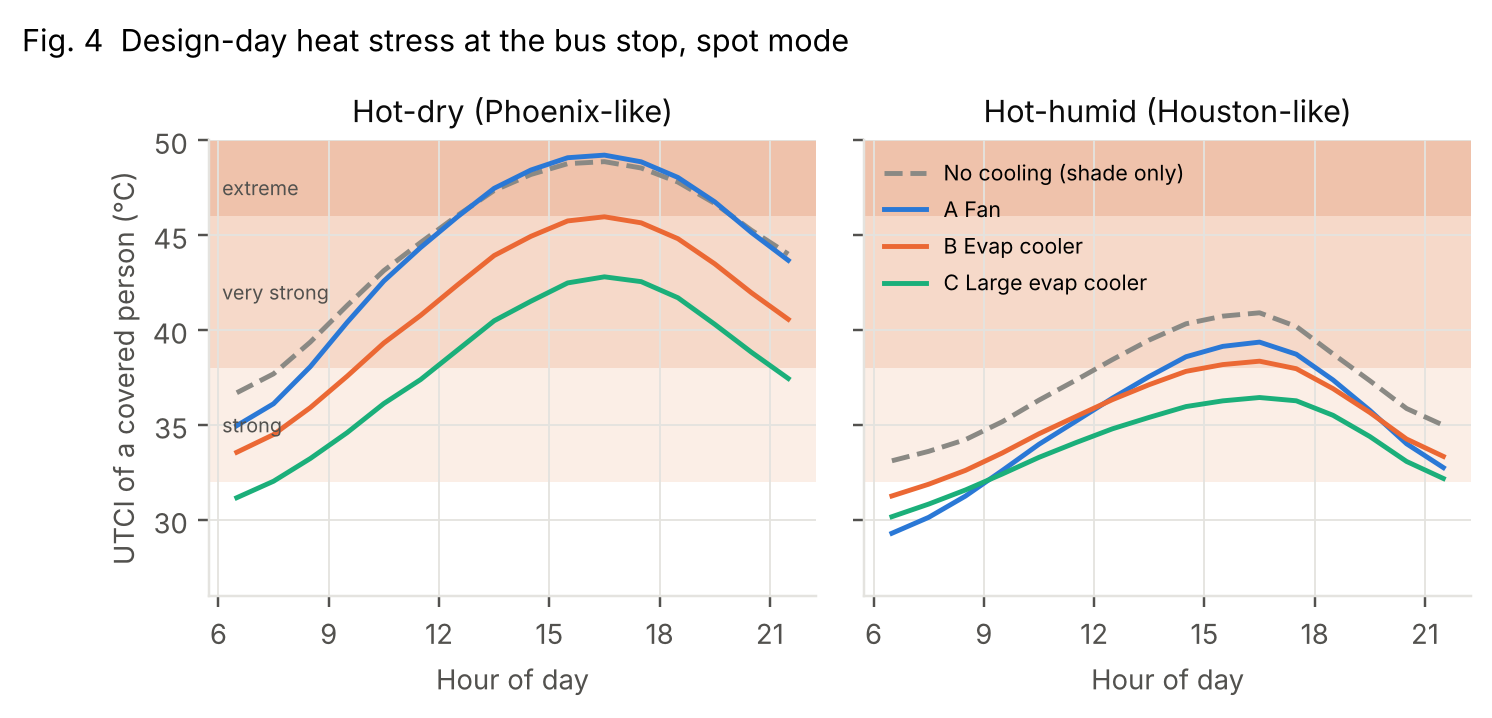
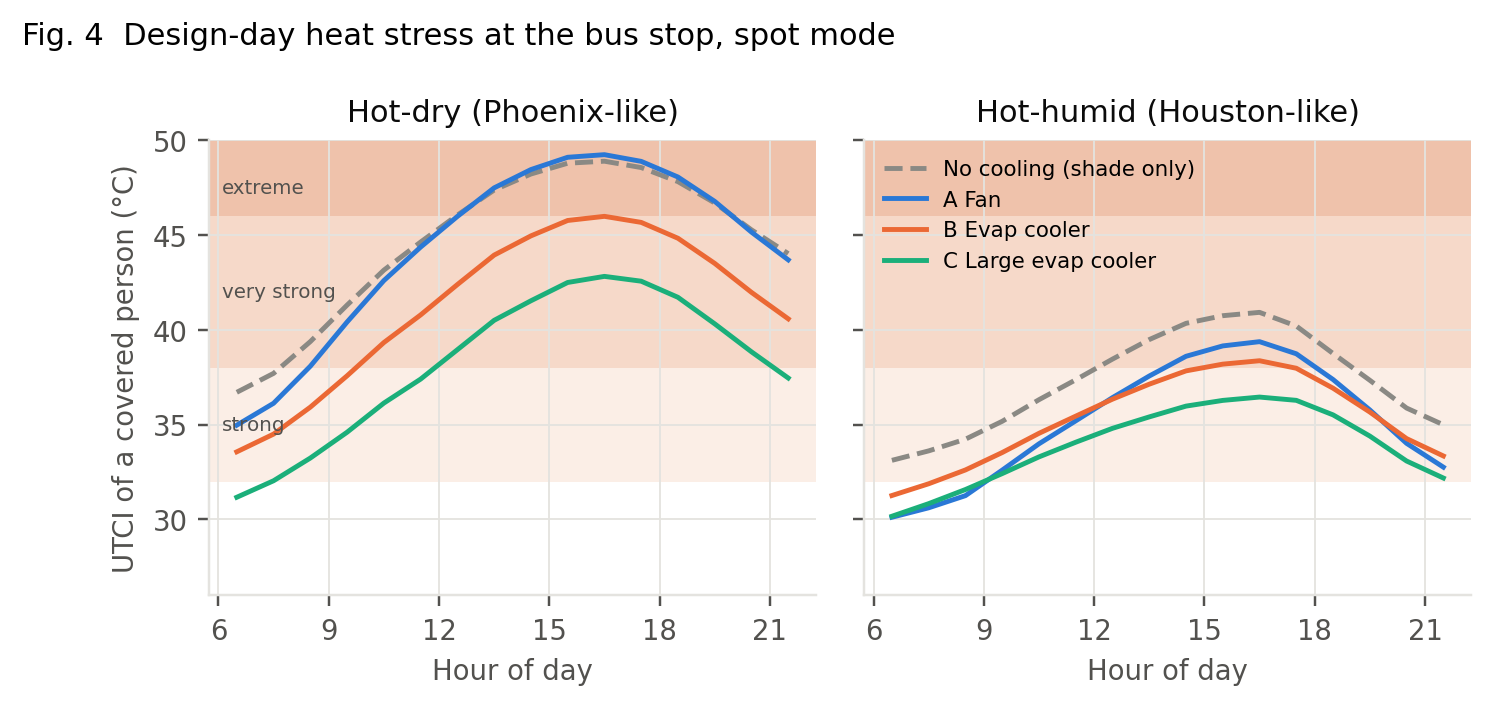
Apply occupied-location rating controls consistently to both models

diff --git a/himcm2026B/stage2b/station.py b/himcm2026B/stage2b/station.py
@@ -26,9 +26,9 @@ import numpy as np
 
 HERE = os.path.dirname(os.path.abspath(__file__))
 sys.path.insert(0, os.path.join(HERE, "..", "stage2"))
-from psychro import humidity_ratio, rel_humidity, evaporative_outlet  # noqa: E402
+from psychro import humidity_ratio, rel_humidity, evaporative_outlet, enthalpy  # noqa: E402
 from model import (Params, devices_for, utci, stress_dose, eps_of, RHO, CP, G,  # noqa: E402
-                   sun_factor, E_WATER)
+                   sun_factor, E_WATER, rated_fan)
 from run_stage2 import weather  # noqa: E402
 
 OUT = os.path.join(HERE, "outputs")
@@ -130,6 +130,8 @@ class System:
     shr: float = 0.75
     setpoint: float = 26.0
     low_supply: bool = True  # AC supplies the occupied zone directly (vs. mixing the whole hall)
+    rated_drop: float = np.inf
+    rating_policy: str = "occupied"
 
 
 def systems():
@@ -137,9 +139,9 @@ def systems():
     q = P2A.q_per_person
     return [
         System("No cooling", "none"),
-        System("A Fans ×10", "fan", 10 * fan.power_kw, jet_speed=fan.jet_speed, cover=10 * fan.airflow / q),
-        System("B Evap ×8", "evap", 8 * b.power_kw, 8 * b.airflow, eps_of(b, P2A), b.jet_speed, 8 * b.airflow / q),
-        System("C Large evap ×5", "evap", 5 * c.power_kw, 5 * c.airflow, eps_of(c, P2A), c.jet_speed, 5 * c.airflow / q),
+        System("A Fans ×10", "fan", 10 * fan.power_kw, jet_speed=fan.jet_speed, cover=10 * fan.airflow / q, rated_drop=fan.rated_drop),
+        System("B Evap ×8", "evap", 8 * b.power_kw, 8 * b.airflow, eps_of(b, P2A), b.jet_speed, 8 * b.airflow / q, rated_drop=b.rated_drop),
+        System("C Large evap ×5", "evap", 5 * c.power_kw, 5 * c.airflow, eps_of(c, P2A), c.jet_speed, 5 * c.airflow / q, rated_drop=c.rated_drop),
         System("D Air conditioner 60 kW", "ac", cap_kw=60.0),
     ]
 
@@ -170,7 +172,7 @@ def timetable(t_h):
 # ---------------------------------------------------------------------------
 # Simulation
 # ---------------------------------------------------------------------------
-def simulate(st, sysm, climate, n_const=None, dt=DT, on=None):
+def simulate(st, sysm, climate, n_const=None, dt=DT, on=None, base=None):
     """Time-dependent heat and moisture balance of the occupied zone.
 
     Each step uses the exact solution of the linear balance with the flows
@@ -184,6 +186,10 @@ def simulate(st, sysm, climate, n_const=None, dt=DT, on=None):
     th = t / 3600
     T_o, RH_o, v_o = outdoor(climate, th)
     W_o = humidity_ratio(T_o, RH_o)
+    if sysm.rating_policy not in ("occupied", "outlet", "uncapped"):
+        raise ValueError("Unknown rating_policy")
+    if sysm.kind == "evap" and sysm.rating_policy == "occupied" and base is None:
+        base = simulate(st, systems()[0], climate, n_const=n_const, dt=dt)
     lam, head = timetable(th)
 
     if st.dynamic and n_const is None:
@@ -244,6 +250,24 @@ def simulate(st, sysm, climate, n_const=None, dt=DT, on=None):
             out["P"][i] = sysm.power_kw
 
         a = RHO * CP * (Q_x + Q_s)                                   # kW/K
+        if Q_s > 0 and sysm.rating_policy != "uncapped":
+            if sysm.rating_policy == "outlet":
+                minimum_supply = T_in - sysm.rated_drop
+            else:
+                # Solve the frozen-flow balance for a bypass supply that
+                # bounds both covered and uncovered occupied temperatures.
+                v_in = max(0.3, 0.5 * v_o[i] * np.mean([st.open_track, st.open_back, st.open_ends]))
+                theta = P2A.theta0 / (1 + v_in / sysm.jet_speed)
+                e = np.exp(-dt * a / C)
+                coef = (1 - e) * Q_s / (Q_x + Q_s)
+                intercept = e * T + (1 - e) * (RHO * CP * Q_x * T_o[i] + G_kw) / a
+                target = base["T"][i] - sysm.rated_drop
+                minimum_supply = max((target - (1 - theta) * intercept) / (theta + (1 - theta) * coef),
+                                     (target - intercept) / coef)
+            T_s = min(T_in, max(T_s, minimum_supply))
+            W_s = float((enthalpy(T_in, W_in) - CP * T_s) / (2501 + 1.86 * T_s))
+            out["T_s"][i], out["W_s"][i] = T_s, W_s
+            out["water"][i] = RHO * Q_s * max(W_s - W_in, 0) * dt
         T_eq = (RHO * CP * (Q_x * T_o[i] + Q_s * T_s) + G_kw) / a
         Q_ac = m_ac = 0.0
         if sysm.kind == "ac":
@@ -290,14 +314,19 @@ def comfort(st, sysm, sim, base):
             Wp = sim["W"] + theta * (sim["W_s"] - sim["W"])
         else:
             Tp, Wp = sim["T"], sim["W"]
-        U_cov = utci(Tp, Tmrt, np.hypot(v_in, sysm.jet_speed), rel_humidity(Tp, Wp))
+        vp = np.hypot(v_in, sysm.jet_speed)
+        U_cov = utci(Tp, Tmrt, vp, rel_humidity(Tp, Wp))
+        if sysm.kind == "fan" and sysm.rating_policy != "uncapped":
+            U_cov, vp = rated_fan(Tp, Tmrt, v_in, rel_humidity(Tp, Wp), sysm.jet_speed, U0, sysm.rated_drop)
         U_cov = np.where(sim["on"], U_cov, U_unc)
         n_cov = np.minimum(N, sysm.cover)
     else:
         U_cov = U_unc
         n_cov = np.zeros_like(N)
+        Tp, Wp, vp = sim["T"], sim["W"], v_in
     D0 = stress_dose(U0, P2A.weights)
-    benefit = n_cov * (D0 - stress_dose(U_cov, P2A.weights)) + (N - n_cov) * (D0 - stress_dose(U_unc, P2A.weights))
+    benefit = (np.where(n_cov > 0, n_cov * (D0 - stress_dose(U_cov, P2A.weights)), 0)
+               + np.where(N > n_cov, (N - n_cov) * (D0 - stress_dose(U_unc, P2A.weights)), 0))
     valid0 = np.isfinite(U0)
     valid1 = ((n_cov == 0) | np.isfinite(U_cov)) & ((N == n_cov) | np.isfinite(U_unc))
     valid = valid0 & valid1
@@ -308,7 +337,7 @@ def comfort(st, sysm, sim, base):
     hot1 = np.where(N == 0, 0.0, np.where(valid1,
                     n_cov * (U_cov >= 38) + (N - n_cov) * (U_unc >= 38), np.nan))
     return dict(U0=U0, U_unc=U_unc, U_cov=U_cov, benefit=benefit, hot0=hot0, hot1=hot1,
-                valid=valid)
+                valid=valid, T_person=Tp, RH_person=rel_humidity(Tp, Wp), v_person=vp)
 
 
 def fan_schedule(st, sysm, climate, base):
@@ -329,7 +358,7 @@ def run(st, sysm, climate, base=None):
     if base is None and sysm.kind != "none":
         base = simulate(st, systems()[0], climate)
     on = fan_schedule(st, sysm, climate, base) if sysm.kind == "fan" else None
-    sim = simulate(st, sysm, climate, on=on)
+    sim = simulate(st, sysm, climate, on=on, base=base)
     if base is None:
         base = sim
     cf = comfort(st, sysm, sim, base)
@@ -341,8 +370,11 @@ def run(st, sysm, climate, base=None):
     relief = cf["benefit"][rep].sum() * h
     invalid = rep & ~cf["valid"] & (sim["N"] > 0)
     pm = rep & (sim["t"] >= 14.5) & (sim["t"] < 15.5)
+    rating_drop = cf["U0"] - cf["U_cov"] if sysm.kind == "fan" else base["T"] - cf["T_person"]
     return dict(
         scenario=st.name, system=sysm.name, climate=climate,
+        rating_policy=sysm.rating_policy,
+        rating_exceed_hours=round(float((rep & (rating_drop > sysm.rated_drop + 1e-5)).sum() * h), 3),
         electricity_kWh=round(elec, 1), water_L=round(water, 0), resource_kWh=round(resource, 1),
         relief_person_degC_h=round(relief, 1),
         eta=round(relief / resource, 1) if resource > 0 else np.nan,

diff --git a/himcm2026B/stage2/model.py b/himcm2026B/stage2/model.py
@@ -43,7 +43,7 @@ class Device:
 class Params:
     # --- M2 device rating interpretation ---
     D_ref: float = 10.0        # degC, wet-bulb depression at which "up to" values hold
-    rating_ceiling: bool = False   # literal reading: the outlet never cools the air by more than the "up to" value
+    rating_policy: str = "occupied"  # occupied (main), outlet (alternative), uncapped (diagnostic)
     fan_ref_T: float = 30.0    # degC, condition at which the fan "feels 3 degC cooler"
     fan_ref_RH: float = 50.0
     q_per_person: float = 0.8  # m3/s of device airflow needed per covered person
@@ -151,6 +151,30 @@ def devices_for(p):
     return tuple(replace(d, jet_speed=fan_u) if d.kind == "fan" else d for d in DEVICES)
 
 
+def rated_fan(T, mrt, v_in, RH, jet, baseline, rating):
+    """Ideal speed modulation to the occupied-location UTCI rating.
+
+    Full rated electric power is charged even when speed is reduced; no
+    unmeasured fan power curve is invented. Harmful fan effects are retained.
+    This is a performance-envelope assumption, not physiological calibration.
+    """
+    raw_v = np.hypot(v_in, jet)
+    raw = utci(T, mrt, raw_v, RH)
+    active = np.isfinite(raw) & (baseline - raw > rating)
+    if not np.any(active):
+        return raw, raw_v
+    lo = np.zeros_like(raw)
+    hi = np.broadcast_to(jet, raw.shape).copy()
+    for _ in range(24):
+        mid = (lo + hi) / 2
+        u = utci(T, mrt, np.hypot(v_in, mid), RH)
+        hit = baseline - u > rating
+        hi = np.where(hit, mid, hi)
+        lo = np.where(hit, lo, mid)
+    v = np.where(active, np.hypot(v_in, lo), raw_v)
+    return utci(T, mrt, v, RH), v
+
+
 # --------------------------------------------------------------------------
 # M3 delivery: volume mode (cool the whole shelter) vs spot mode (aim at people)
 # --------------------------------------------------------------------------
@@ -230,9 +254,27 @@ def evaluate(dev, T, RH, v_w, n_mean, p, mode="spot"):
         share = np.ones_like(T)
     else:
         eps = eps_of(dev, p)
-        if p.rating_ceiling:
-            eps = np.minimum(eps, dev.rated_drop / (T - wet_bulb(T, RH)))
+        if p.rating_policy not in ("occupied", "outlet", "uncapped"):
+            raise ValueError("Unknown rating_policy")
+        if p.rating_policy == "outlet":
+            eps = np.minimum(eps, dev.rated_drop / np.maximum(T - wet_bulb(T, RH), 1e-9))
+        elif p.rating_policy == "occupied" and mode == "spot":
+            theta = p.theta0 / (1 + v_in / dev.jet_speed)
+            eps = np.minimum(eps, dev.rated_drop / np.maximum(theta * (T - wet_bulb(T, RH)), 1e-9))
         T_s, W_s, _ = evaporative_outlet(T, RH, eps)
+        if p.rating_policy == "occupied" and mode != "spot":
+            # Bypass modulation is solved through the zone balance, so water
+            # and sensible cooling use the same supply condition as comfort.
+            test_T = volume_mode_zone(T, W, T_s, W_s, dev.airflow, v_w, n_in, p)[0]
+            if np.any(T - test_T > dev.rated_drop):
+                lo, hi = np.zeros_like(T), np.broadcast_to(eps, T.shape).copy()
+                for _ in range(24):
+                    mid = (lo + hi) / 2
+                    ts, ws, _ = evaporative_outlet(T, RH, mid)
+                    tz = volume_mode_zone(T, W, ts, ws, dev.airflow, v_w, n_in, p)[0]
+                    hit = T - tz > dev.rated_drop
+                    hi, lo = np.where(hit, mid, hi), np.where(hit, lo, mid)
+                T_s, W_s, _ = evaporative_outlet(T, RH, lo)
         gross_kw = RHO * dev.airflow * CP * (T - T_s)                     # sensible cooling made
         water_lph = RHO * dev.airflow * (W_s - W) * 3600                   # kg/h ~ L/h
         if mode == "spot":
@@ -245,6 +287,8 @@ def evaluate(dev, T, RH, v_w, n_mean, p, mode="spot"):
             n_ben = n_in
     RHp = rel_humidity(Tp, Wp)
     U1 = utci(Tp, Tmrt, vp, RHp)   # radiant field is not changed by the device
+    if dev.kind == "fan" and p.rating_policy != "uncapped":
+        U1, vp = rated_fan(Tp, Tmrt, v_in, RHp, dev.jet_speed, U0, dev.rated_drop)
     relief = stress_dose(U0, p.weights) - stress_dose(U1, p.weights)
     eff_drop = np.maximum(U0, 26) - np.maximum(U1, 26)
     resource_kw = dev.power_kw + p.e_water * water_lph / 1000

diff --git a/himcm2026B/tests/test_regressions.py b/himcm2026B/tests/test_regressions.py
@@ -8,8 +8,8 @@ import numpy as np
 ROOT = Path(__file__).resolve().parents[1]
 sys.path.insert(0, str(ROOT / "stage2"))
 sys.path.insert(0, str(ROOT / "stage2b"))
-from model import utci
-from station import station, systems, run
+from model import utci, Params, devices_for, evaluate
+from station import station, systems, run, simulate, comfort
 
 
 class ApplicabilityTests(unittest.TestCase):
@@ -24,6 +24,25 @@ class ApplicabilityTests(unittest.TestCase):
         self.assertFalse(r["full_day_supported"])
         self.assertTrue(np.isnan(r["eta"]))
         self.assertTrue(np.isnan(r["person_h_UTCI38_before"]))
+
+
+class RatingTests(unittest.TestCase):
+    def test_occupied_ratings_in_2a(self):
+        p = Params()
+        for d in devices_for(p):
+            r = evaluate(d, np.array([35., 45., 49.]), 15., 0.1, 10., p)
+            drop = r["dU"] if d.kind == "fan" else np.array([35., 45., 49.]) - r["T_person"]
+            self.assertTrue(np.all(drop <= d.rated_drop + 1e-6))
+
+    def test_occupied_ratings_in_station(self):
+        st = station("Platform screen doors")
+        clim = "Hot-dry (Phoenix-like)"
+        base = simulate(st, systems()[0], clim)
+        for sysm in systems()[1:4]:
+            sim = simulate(st, sysm, clim, base=base)
+            cf = comfort(st, sysm, sim, base)
+            drop = cf["U0"] - cf["U_cov"] if sysm.kind == "fan" else base["T"] - cf["T_person"]
+            self.assertLessEqual(np.nanmax(drop), sysm.rated_drop + 1e-5)
 
 
 if __name__ == "__main__":

diff --git a/himcm2026B/stage2b/run_2b.py b/himcm2026B/stage2b/run_2b.py
@@ -29,14 +29,14 @@ def validation():
     shelter = replace(Station(name="bus shelter"), L=6.0, D=1.8, Hz=2.0, H_open=2.5, open_track=1.0, open_back=0.0,
                       open_ends=1.0, kappa_train=0.0, mass_factor=1.0, gains=False, dynamic=False)
     c = SYS[3]
-    c1 = replace(c, power_kw=DEVS2A[2].power_kw, airflow=DEVS2A[2].airflow)
+    c1 = replace(c, power_kw=DEVS2A[2].power_kw, airflow=DEVS2A[2].airflow, rating_policy="uncapped")
     sim = simulate(shelter, c1, CLIM[0], n_const=0.0, dt=5.0)
     k = np.argmin(abs(sim["t"] - 15.0))
     T_o, W_o = sim["T_o"][k], sim["W_o"][k]
     from psychro import rel_humidity
     Ts, Ws, _ = evaporative_outlet(T_o, rel_humidity(T_o, W_o), c1.eps)
     Tz_2a, _, _, _ = volume_mode_zone(T_o, W_o, Ts, Ws, c1.airflow, sim["v_o"][k], 0, P2A)
-    rows.append(("nesting: bus-shelter case reproduces 2a volume mode (zone T at 15:00, C)",
+    rows.append(("balance nesting without rating control: bus shelter reproduces 2a volume mode (zone T at 15:00, C)",
                  round(float(sim["T"][k]), 2), round(float(Tz_2a), 2), abs(sim["T"][k] - Tz_2a) < 0.15))
     # (2) time-step convergence: dt = 10 s vs dt = 2 s
     st = station("Platform screen doors")

diff --git a/himcm2026B/stage2/run_stage2.py b/himcm2026B/stage2/run_stage2.py
@@ -329,7 +329,7 @@ def rating_ceiling(t2):
     temperature drop in every climate. Shows how far the base reading (fixed
     effectiveness) exceeds that ceiling on the design days, and reruns the
     design days with the ceiling applied."""
-    capped, _ = design_days(replace(P, rating_ceiling=True), "table9_rating_ceiling")
+    capped, _ = design_days(replace(P, rating_policy="outlet"), "table9_rating_ceiling")
     rows = []
     for cname in CLIMATES:
         T, RH, _, _ = day_profile(cname)

diff --git a/himcm2026B/REPAIR_LOG.md b/himcm2026B/REPAIR_LOG.md
@@ -9,3 +9,11 @@
 - 这不会修复物理模型的极端温度预测，也不会把 50°C 以上的 UTCI 外推变成验证结果。
 - 验证：见本项提交的测试和重新生成的输出；新增回归覆盖 50.1°C 输入及凤凰城封闭候车室的真实越界案例。
 - 实际验证：2 项新回归、2a 原有 14 项数值检验、2b 原有 4 项数值检验均通过；2b 全部表图重新生成。凤凰城封闭候车室的有乘客 UTCI 无效时段为 4.333 h，全天效率留空。上述检验不是现场实测验证。
+
+## 2. 统一额定值口径
+
+- 主口径是候车位置相对无设备基线的效果；A 用 UTCI 差，B/C 用空气温差。出口上限是独立替代情景；无上限只用于诊断。
+- 风扇用理想调速限制效果，但仍收取全功率，未虚构功率曲线。蒸发设备通过旁通供气控制限制候车位置温差，并保持焓和水耗计算一致；2b 同时约束覆盖区和混合区。
+- 新增额定值越界小时输出，防止动态蓄冷或不可实现控制被静默截断。此控制是理想性能包络，不是已测得的商业控制器。
+- 验证：4 项回归通过，含 2a/2b 的 A/B/C 上限；2a 重生成和 14 项数值检查通过；2b 4 项检查通过。嵌套检验明确关闭额定值控制以比较同一无控制平衡方程，原容限未放宽。
+- 所有最终结果将在控制修复和语义整理后统一重生成。
